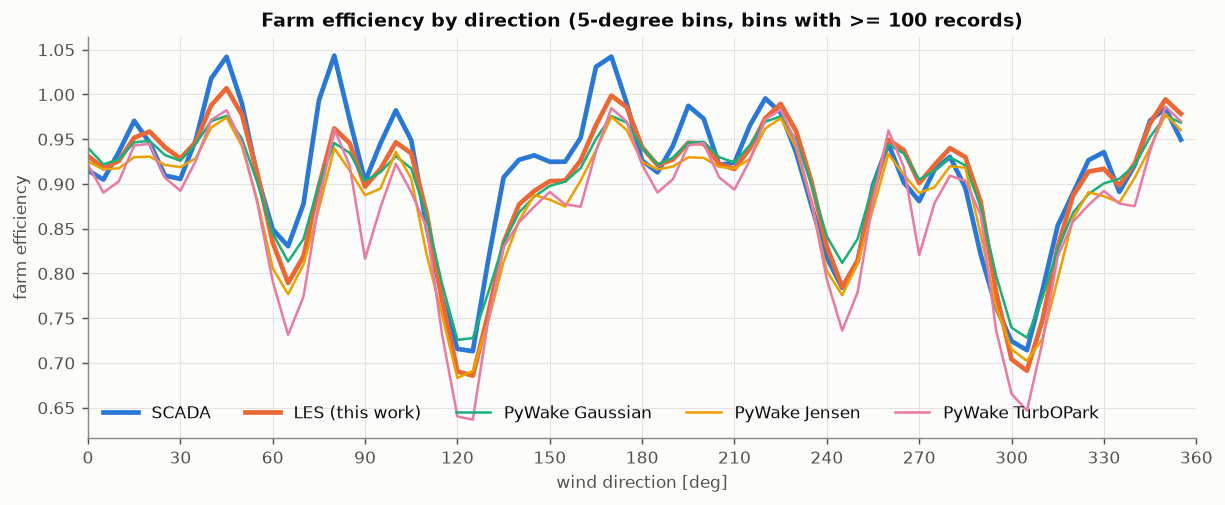
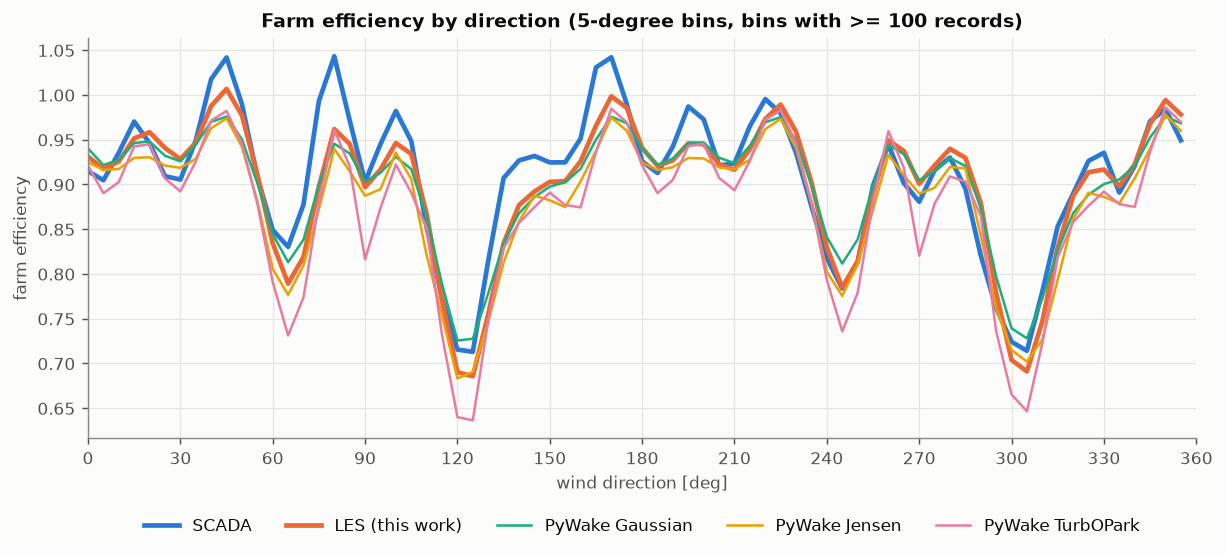
Figures: legends off the data, more space between the hub-plane panels
Regenerated from the saved results (no new LES runs). Farm efficiency: legend below the axes, it covered the minima at 120 and 300 deg. Per-turbine panels: one figure legend below, it covered T1's dip at 10-30 deg. Hub plane: wider gap between the panels. Layout only.

diff --git a/src/wind_les/plots.py b/src/wind_les/plots.py
@@ -118,7 +118,8 @@ def hub_plane(results: Path, out: Path, n: int = 8, directions=(240.0, 300.0)) -
             if study.run_path(results, n, wd).exists()}
     if not runs:
         return
-    fig, ax = plt.subplots(len(runs), 2, figsize=(11, 4.3 * len(runs)), squeeze=False)
+    fig, ax = plt.subplots(len(runs), 2, figsize=(11, 4.3 * len(runs)), squeeze=False,
+                           gridspec_kw={"wspace": 0.3})  # room between the panels for the y-axis label
     for row, (wd, r) in enumerate(runs.items()):
         uref = r["inflow_hub_lb"]
         ext = [-geo.x0 * setup.dx / 1000, (geo.nx - geo.x0) * setup.dx / 1000,
@@ -216,7 +217,7 @@ def efficiency_direction(results: Path, out: Path) -> None:
     ax.set(xlabel="wind direction [deg]", ylabel="farm efficiency", xlim=(0, 360),
            title="Farm efficiency by direction (5-degree bins, bins with >= 100 records)")
     ax.set_xticks(np.arange(0, 361, 30))
-    ax.legend(ncol=5, loc="lower left")
+    ax.legend(ncol=5, loc="upper center", bbox_to_anchor=(0.5, -0.16))  # below the axes: it covered the minima
     _save(fig, out / "efficiency_direction.png")
 
 
@@ -242,10 +243,12 @@ def turbine_efficiency(results: Path, out: Path) -> None:
         ax.set_xlabel("wind direction [deg]")
     for ax in axes[:, 0]:
         ax.set_ylabel("power / free-stream reference")
-    axes[0, 0].legend(loc="lower left", fontsize=8)
+    # one legend for the figure, below the panels: inside T1 it covered the dip at 10-30 deg
+    handles, names = axes[0, 0].get_legend_handles_labels()
+    fig.legend(handles, names, loc="lower center", ncol=3, fontsize=9)
     fig.suptitle("Each turbine against the free-stream reference (5-degree bins; shaded: sectors 60-150 deg)",
                  fontweight="bold", fontsize=10.5)
-    fig.tight_layout()
+    fig.tight_layout(rect=(0, 0.05, 1, 1))
     _save(fig, out / "turbine_efficiency.png")
 
 
